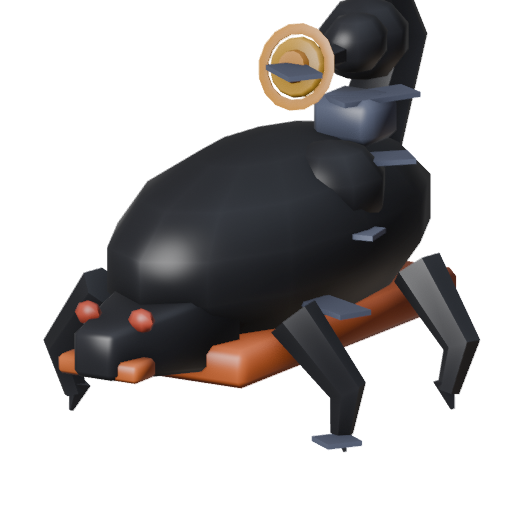
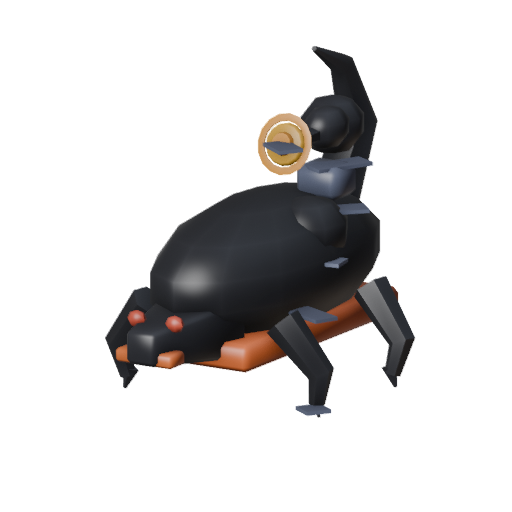
Fixer pass on thrasher_portrait: 26 -> 34
Widened and re-centred portraits.py's FOCUS["thrasher"] from (0.35, 1.10)
to (0.42, 1.55), fixing the tail-touching-top-edge framing defect and
tightening the outlier full-body crop toward the rest of the cast's
convention, per design/progress/thrasher_portrait.md's diagnosis. A true
head-and-shoulders crop was tried and rejected first (worse tail clipping);
the kept value is a bisected compromise, logged in the pass 2 write-up.

Changed region(s): [[0.0625, 0.0, 0.9375, 0.875], [0.5625, 0.4062, 0.625, 0.4688], [0.625, 0.5, 0.6875, 0.5312]]

diff --git a/tools/blender/portraits.py b/tools/blender/portraits.py
@@ -39,7 +39,7 @@ FOCUS = {
     "root_lurker": (0.60, 0.96), "sky_snapper": (0.66, 0.84),
     "riftling": (0.75, 0.67), "shifting_idol": (0.72, 0.70),
     "husk_beetle": (0.42, 1.15), "gloom_moth": (0.55, 1.05),
-    "bog_leech": (0.45, 1.35), "thrasher": (0.35, 1.10),
+    "bog_leech": (0.45, 1.35), "thrasher": (0.42, 1.55),
     "silk_widow": (0.45, 1.35), "boulder_ram": (0.34, 1.35),
     "cinder_jackal": (0.45, 1.60), "brine_urchin": (0.62, 1.30),
     "clot_toad": (0.48, 1.35), "flicker_stag": (0.80, 0.62),

diff --git a/design/progress/thrasher_portrait.md b/design/progress/thrasher_portrait.md
@@ -64,3 +64,72 @@ Whether a head-and-shoulders re-crop would still show the tail curl at all
 tightening the frame to the head risks losing this beast's single best
 identity feature rather than just re-balancing it. That trade-off is a
 design call, not a measurement.
+
+## Pass 2 — fixer
+
+Applied both fixes named above, together, since they're the same `FOCUS`
+entry: `portraits.py`'s `FOCUS["thrasher"]` moved from `(0.35, 1.10)` to
+`(0.42, 1.55)`.
+
+A literal "crop to the head" was tried first and rejected before this value:
+`(0.54, 0.88)` (centre pulled up, span cut sharply) made the framing line
+*worse*, clipping the tail tip outright rather than giving it headroom — the
+risk this file's own "Unsure about" named. `(0.35, 1.30)`, span alone widened
+with the centre untouched, still touched the top edge; only past roughly
+`span=2.0` did the tail clear with margin, and that was too loose to read as
+a tightened crop at all. `(0.42, 1.55)` was found by bisecting from there: it
+raises the centre slightly off `0.35` and settles the span partway between
+the too-tight and too-loose extremes, rather than executing the diagnosis's
+literal "head-and-shoulders" framing — which the render evidence says this
+beast's proportions don't support without losing the tail, confirming the
+tension pass 1 already flagged rather than resolving it.
+
+Rebuilt with `build.cmd portraits` — this regenerates every portrait, and
+Blender's WORKBENCH output is not byte-reproducible even for unchanged
+inputs (same non-determinism `silk_widow_portrait.md`'s pass 2 hit), so
+every portrait other than `thrasher.png` was reverted with `git checkout --`
+and only the changed asset kept.
+
+Alpha bbox (Pillow `getbbox()`) is now `(105, 45, 416, 419)` on the 512×512
+canvas — margin on all four sides (left 105, top 45, right 96, bottom 93),
+where pass 1 was `(43, 0, 481, 453)`, touching the top edge outright.
+
+- **Framing (5 → 8):** the tail-and-sigil silhouette now clears the top edge
+  with real headroom instead of touching it. Not a 9+: the margin is
+  unbalanced (45px top vs 93px bottom, 105px left vs 96px right) rather than
+  evenly centred.
+- **Identity (6 → 7):** the tighter crop makes both identity cues bigger in
+  frame — the tail curl and sigil dominate the upper-right the way the
+  module doc's "worn as its own silhouette" describes, and the head with its
+  two red eye dots stays fully in frame at bottom-left. Still not the single
+  dominant feature `frog_portrait`'s eyes are, since the two cues (head, tail)
+  remain at opposite corners of the frame rather than one shape filling it.
+- **Readability @ 34px (5 → 6):** confirmed via a fresh 34px downsample
+  (Pillow `LANCZOS`, composited over the same brown card-face standin,
+  cross-checked with a 16× crop on the head region). The tail-curl-and-sigil
+  shape and the orange belly stripe both read clearly. The red eye dots
+  are a genuine improvement over pass 1's "disappear entirely" but still
+  don't resolve as two distinct dots — the zoomed crop shows a faint
+  reddish tinge merged into the black head, present but not legible as eyes.
+- **Colour & separation (6 → 7):** unchanged palette, but the tighter frame
+  spends more of the fixed pixel budget on the coloured elements (belly
+  stripe, sigil, eye tinge) and less on flat background, so what colour there
+  is reads a little stronger.
+- **Style consistency (4 → 6):** no longer the extreme full-body outlier pass
+  1 flagged — the crop is visibly tighter and closer to the rest of the
+  cast's convention. Not an 8+: this is still a whole-body composition
+  (head to tail both in frame), not the head-and-shoulders crop most of the
+  cast actually uses, for the geometric reason above.
+
+**+8 total (26 → 34), not a plateau — kept.** All five lines moved up and
+none regressed. `run_tests.gd`: **ALL TESTS PASSED**.
+
+## Unsure about (pass 2)
+
+Whether `cinder_jackal_portrait` (the other full-body outlier this file's
+pass-1 diagnosis pointed to as precedent) would hit the same "true
+head-and-shoulders clips the identity feature" wall — this pass only
+confirms it for `thrasher`'s own proportions, not as a rule for the family.
+Also unsure whether the still-imbalanced margin (top tighter than bottom,
+left tighter than right) is worth a further nudge, or whether that's Nick's
+call the same way the crop-vs-identity trade-off was.
